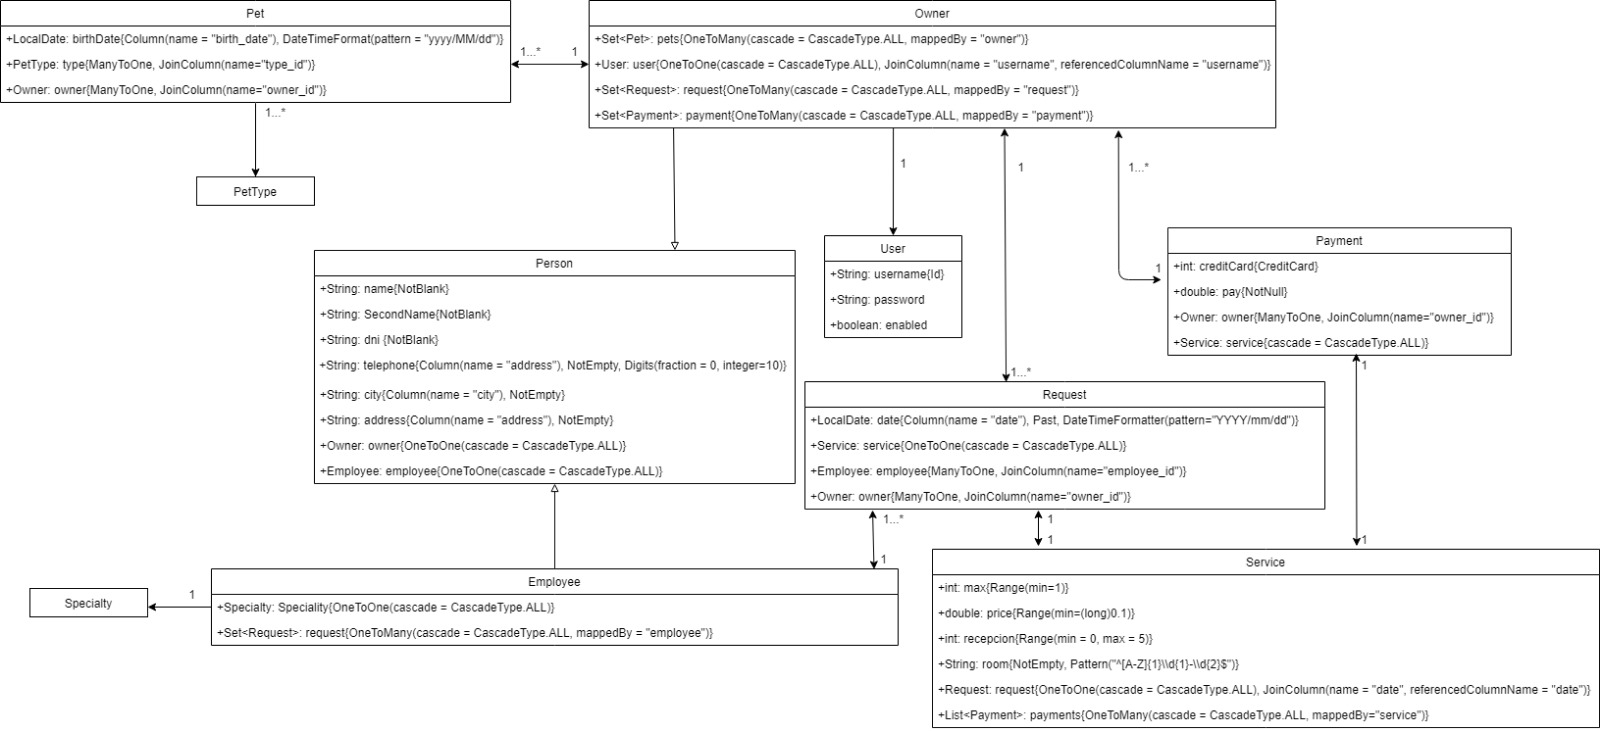
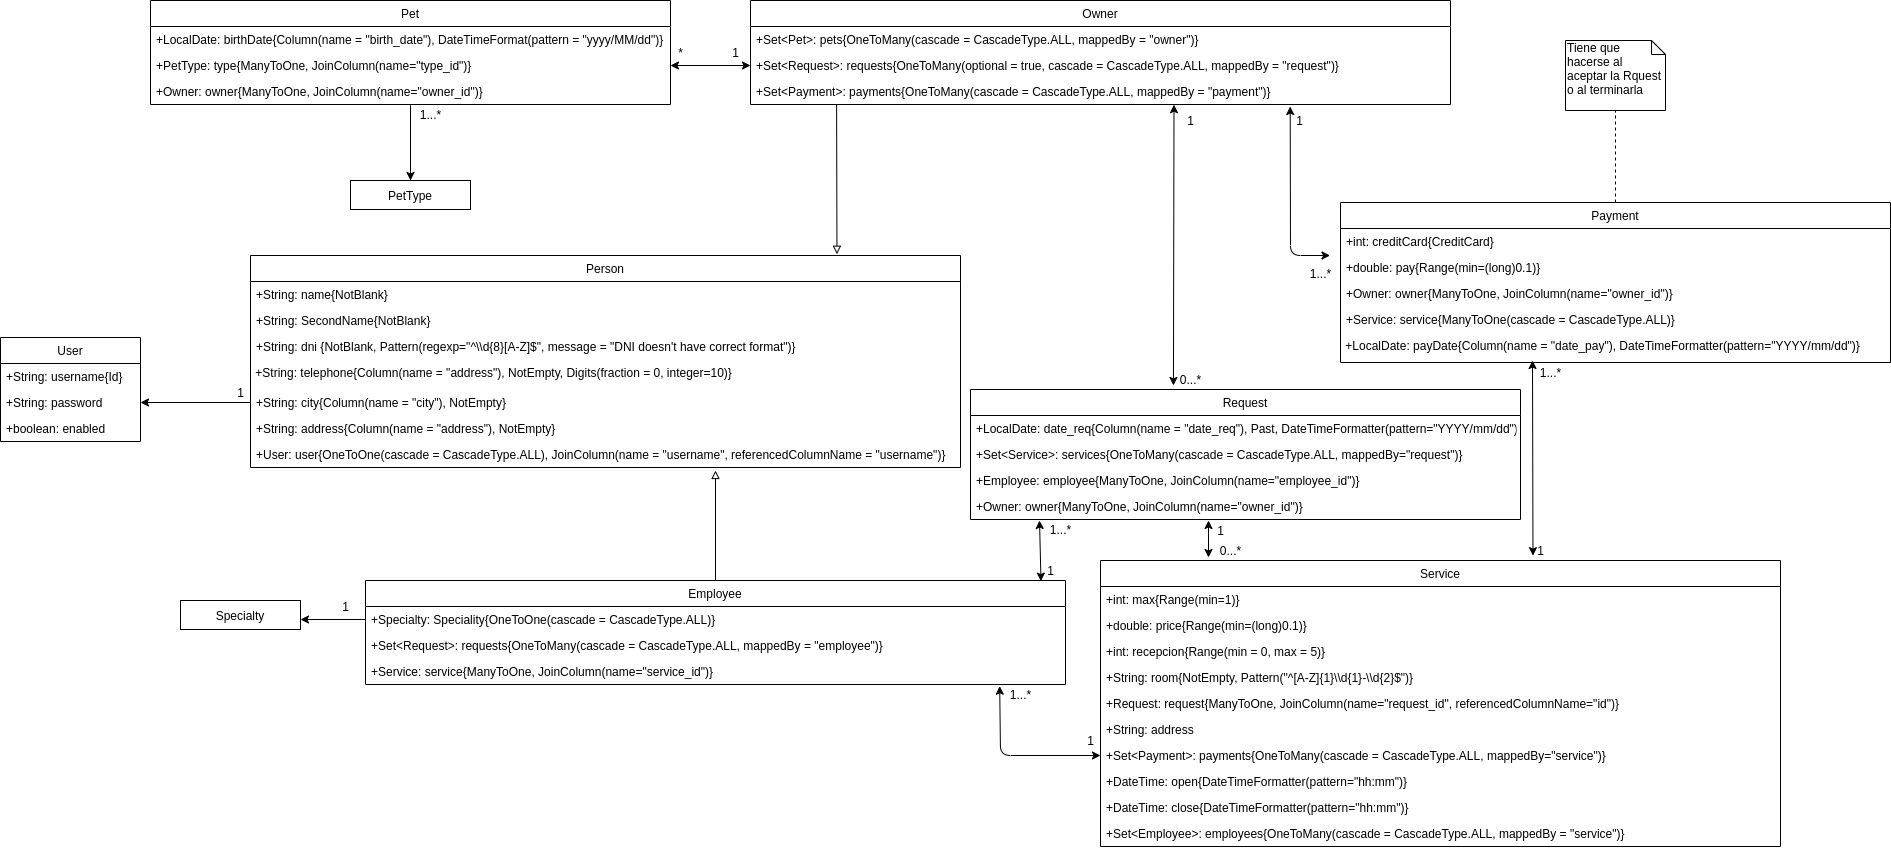
IMPORTANT update some entities that created conflicts

diff --git a/src/main/java/org/springframework/samples/petclinic/model/Request.java b/src/main/java/org/springframework/samples/petclinic/model/Request.java
@@ -41,10 +41,10 @@ import org.springframework.format.annotation.DateTimeFormat;
 @Table(name = "requests")
 public class Request extends BaseEntity{
 
-	@Column(name = "date")
+	@Column(name = "date_req")
 	@Past
 	@DateTimeFormat(pattern = "yyyy/MM/dd")
-	private LocalDate date;
+	private LocalDate date_req;
 	
 	@OneToMany(cascade = CascadeType.ALL, mappedBy="request")
 	private Set<Service> services;
@@ -58,12 +58,12 @@ public class Request extends BaseEntity{
 	private Owner owner;
 	
 
-	public void setDate(LocalDate date) {
-		this.date = date;
+	public void setDate(LocalDate date_req) {
+		this.date_req = date_req;
 	}
 
 	public LocalDate getDate() {
-		return this.date;
+		return this.date_req;
 	}
 
 	public Set<Service> getServices() {

diff --git a/src/main/java/org/springframework/samples/petclinic/model/Service.java b/src/main/java/org/springframework/samples/petclinic/model/Service.java
@@ -67,7 +67,7 @@ public class Service extends BaseEntity {
 	private String room;
 	
 	@OneToOne(cascade=CascadeType.ALL)
-	@JoinColumn(name = "date", referencedColumnName="date")
+	@JoinColumn(name = "request_id", referencedColumnName="id")
 	private Request request;
 	
 	@OneToMany(cascade=CascadeType.ALL, mappedBy="service")
